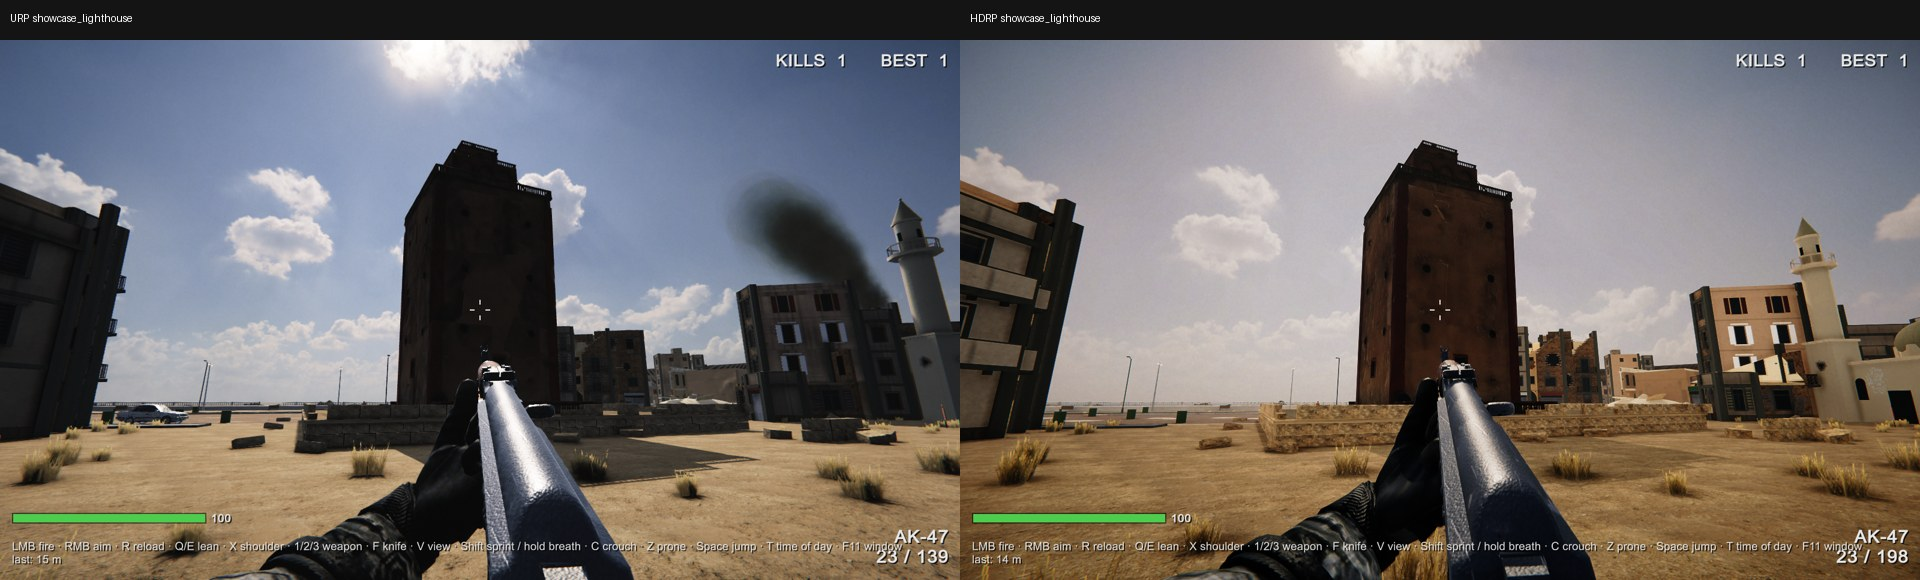
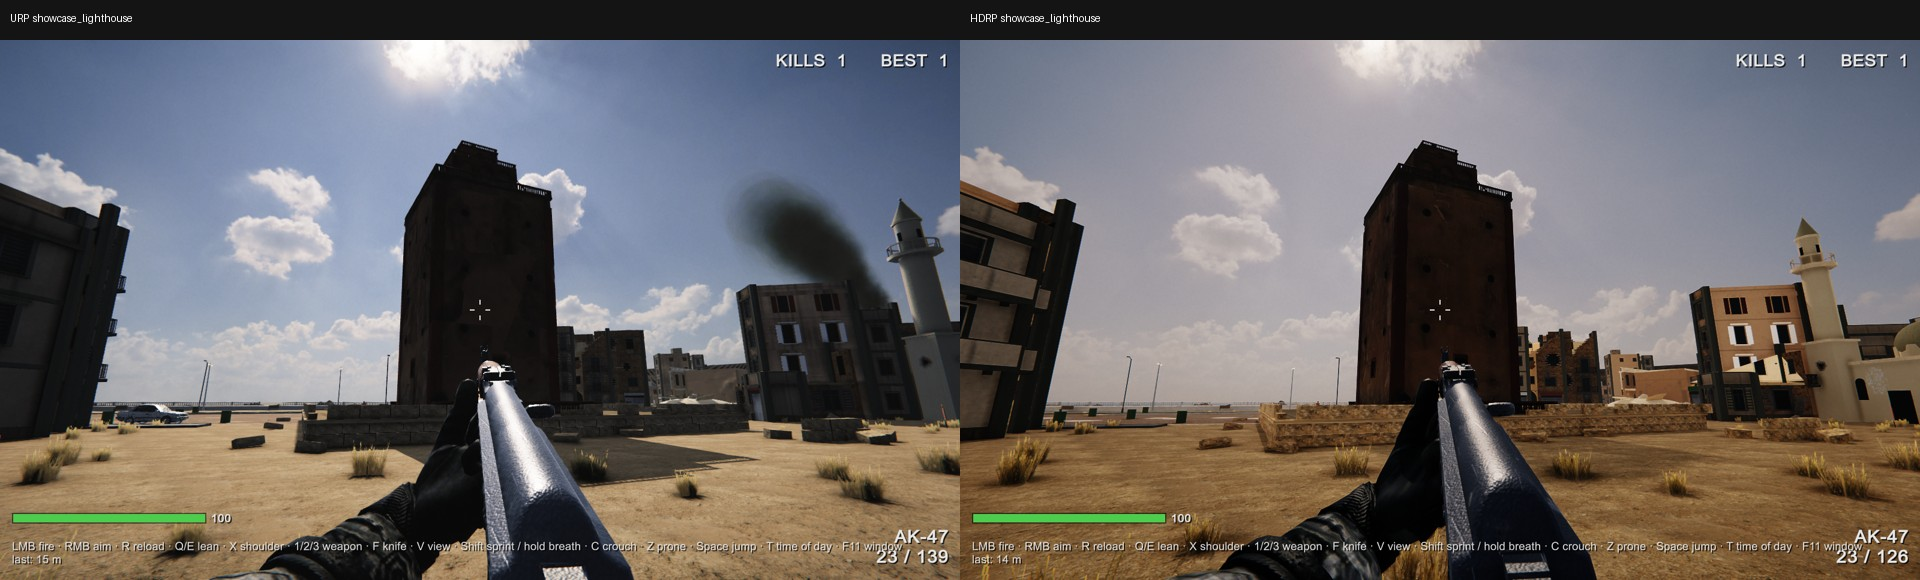
HDRP cinematic pass: 16-bit colour and grading LUT, full ACES, PCSS sun shadows, specular AA, 16x anisotropic, lighter lens artefacts, opt-in HDR10; report and before/after pictures

diff --git a/Assets/Editor/HdrpSetup.cs b/Assets/Editor/HdrpSetup.cs
@@ -71,7 +71,12 @@ public static class HdrpSetup
         // deferred only: hundreds of opaque buildings and one sun - cheapest lighting, half the shader variants.
         // (No MSAA in deferred; anti-aliasing is temporal, see CinematicLook.MainCamera.)
         s.supportedLitShaderMode = RenderPipelineSettings.SupportedLitShaderMode.DeferredOnly;
-        s.colorBufferFormat = RenderPipelineSettings.ColorBufferFormat.R11G11B10;
+        // 16-bit float colour all the way to the tonemapper: no banding in the sky gradient, the haze or the night
+        // (11/11/10 bits has no sign and only 5-6 bits of mantissa: it steps visibly in smooth dark gradients)
+        s.colorBufferFormat = RenderPipelineSettings.ColorBufferFormat.R16G16B16A16;
+        var pp = s.postProcessSettings;
+        pp.lutSize = 65; pp.lutFormat = GradingLutFormat.R16G16B16A16; pp.bufferFormat = PostProcessBufferFormat.R16G16B16A16;
+        s.postProcessSettings = pp;
         s.supportSSR = true; s.supportSSRTransparent = false;
         s.supportSSAO = true; s.supportSSGI = true;
         s.supportVolumetrics = true; s.supportVolumetricClouds = false;
@@ -88,7 +93,7 @@ public static class HdrpSetup
         var sh = s.hdShadowInitParams;
         sh.shadowResolutionDirectional = new IntScalableSetting(new[] { 1024, 2048, 2048, 4096 }, ScalableSettingSchemaId.With4Levels);
         sh.maxDirectionalShadowMapResolution = 4096;
-        sh.directionalShadowFilteringQuality = HDShadowFilteringQuality.Medium;
+        sh.directionalShadowFilteringQuality = HDShadowFilteringQuality.High;        // PCSS: sharp where the object touches the ground, softer with distance
         sh.supportScreenSpaceShadows = false;
         s.hdShadowInitParams = sh;
         // the picture can be drawn smaller and scaled up with the temporal upscaler (GraphicsQuality sets the percentage)
@@ -101,6 +106,8 @@ public static class HdrpSetup
 
         bool switched = GraphicsSettings.defaultRenderPipeline != asset;
         GraphicsSettings.defaultRenderPipeline = asset;
+        // the player may drive an HDR10 display (10 bits, wide gamut). It stays in SDR unless started with -hdr (GraphicsQuality).
+        PlayerSettings.allowHDRDisplaySupport = true; PlayerSettings.hdrBitDepth = HDRDisplayBitDepth.BitDepth10;
         int keep = QualitySettings.GetQualityLevel();
         for (int i = 0; i < QualitySettings.names.Length; i++) { QualitySettings.SetQualityLevel(i, false); QualitySettings.renderPipeline = asset; }
         QualitySettings.SetQualityLevel(keep, false);
@@ -145,8 +152,9 @@ public static class HdrpSetup
             m.shader = Shader.Find(shader); set(m); if (shader.StartsWith("HDRP/")) HDMaterial.ValidateMaterial(m); EditorUtility.SetDirty(m);
             return m;
         }
-        Make("Lit", HdLit, m => { m.SetTexture("_BaseColorMap", white); });
-        Make("LitPbr", HdLit, m => { m.SetTexture("_BaseColorMap", white); m.SetTexture("_NormalMap", flat); m.SetTexture("_MaskMap", mask); });
+        void Aa(Material m) { m.SetFloat("_EnableGeometricSpecularAA", 1); m.SetFloat("_SpecularAAScreenSpaceVariance", 0.15f); m.SetFloat("_SpecularAAThreshold", 0.2f); }
+        Make("Lit", HdLit, m => { m.SetTexture("_BaseColorMap", white); Aa(m); });
+        Make("LitPbr", HdLit, m => { m.SetTexture("_BaseColorMap", white); m.SetTexture("_NormalMap", flat); m.SetTexture("_MaskMap", mask); Aa(m); });
         Make("LitCutout", HdLit, m => { m.SetTexture("_BaseColorMap", white); m.SetFloat("_AlphaCutoffEnable", 1); m.SetFloat("_AlphaCutoff", 0.5f); m.SetFloat("_DoubleSidedEnable", 1); m.SetFloat("_DoubleSidedNormalMode", 2); });
         Make("Fx", "Benghazi/Fx", m => { });
         Make("Decal", "HDRP/Decal", m =>
@@ -267,6 +275,10 @@ public static class HdrpSetup
         m.SetFloat("_SurfaceType", transparent ? 1 : 0); m.SetFloat("_BlendMode", 0);
         if (transparent) { m.SetFloat("_TransparentZWrite", 0); m.SetFloat("_EnableFogOnTransparent", 1); }
         m.SetFloat("_SupportDecals", 1); m.SetFloat("_ReceivesSSR", 1);
+        // geometric specular anti-aliasing: bumps smaller than a pixel widen the highlight instead of sparkling as the
+        // camera moves; and occlusion also dims reflections in creases
+        m.SetFloat("_EnableGeometricSpecularAA", 1); m.SetFloat("_SpecularAAScreenSpaceVariance", 0.12f); m.SetFloat("_SpecularAAThreshold", 0.2f);
+        m.SetFloat("_SpecularOcclusionMode", 1);
         m.SetFloat("_EnergyConservingSpecularColor", 1);
         HDMaterial.ValidateMaterial(m);
         EditorUtility.SetDirty(m);

diff --git a/Assets/Editor/CinematicLook.cs b/Assets/Editor/CinematicLook.cs
@@ -129,7 +129,10 @@ public static class CinematicLook
         T Add<T>() where T : VolumeComponent { var c = p.Add<T>(false); c.active = true; return c; }
 
         // ACES: filmic shoulder and toe
-        Add<Tonemapping>().mode.Override(TonemappingMode.ACES);
+        // the full ACES transform (RRT + ODT), not the fitted curve: a very bright light loses its colour on the way
+        // to white the way it does on film, instead of clipping to a flat saturated patch
+        var tone = Add<Tonemapping>(); tone.mode.Override(TonemappingMode.ACES); tone.useFullACES.Override(true);
+        tone.acesPreset.Override(HDRACESPreset.ACES1000Nits); tone.detectPaperWhite.Override(true); tone.detectBrightnessLimits.Override(true);     // only used on an HDR display (-hdr)
 
         // the URP grade, value for value (exposure, saturation and filter belong to the hour: TimeOfDay)
         var ca = Add<ColorAdjustments>();
@@ -150,14 +153,14 @@ public static class CinematicLook
         var bloom = Add<Bloom>();
         bloom.threshold.Override(1.1f); bloom.intensity.Override(0.16f); bloom.scatter.Override(0.6f); bloom.tint.Override(Color.white);
         var vig = Add<Vignette>();
-        vig.mode.Override(VignetteMode.Procedural); vig.color.Override(Color.black); vig.intensity.Override(0.28f); vig.smoothness.Override(0.4f); vig.rounded.Override(false);
-        var grain = Add<FilmGrain>(); grain.type.Override(FilmGrainLookup.Thin1); grain.intensity.Override(0.22f); grain.response.Override(0.8f);
+        vig.mode.Override(VignetteMode.Procedural); vig.color.Override(Color.black); vig.intensity.Override(0.2f); vig.smoothness.Override(0.4f); vig.rounded.Override(false);
+        var grain = Add<FilmGrain>(); grain.type.Override(FilmGrainLookup.Thin1); grain.intensity.Override(0.14f); grain.response.Override(0.8f);
         var flare = Add<ScreenSpaceLensFlare>();
         flare.intensity.Override(0.55f); flare.tintColor.Override(new Color(1f, 0.93f, 0.82f));
         flare.firstFlareIntensity.Override(0.6f); flare.secondaryFlareIntensity.Override(0.35f); flare.warpedFlareIntensity.Override(0.3f);
         flare.streaksIntensity.Override(0.6f); flare.streaksLength.Override(0.45f); flare.streaksThreshold.Override(0.6f);
         flare.vignetteEffect.Override(0.8f); flare.chromaticAbberationIntensity.Override(0.5f);
-        Add<ChromaticAberration>().intensity.Override(0.04f);
+        Add<ChromaticAberration>().intensity.Override(0.03f);
         // per-object motion vectors: the gun and arms move with the camera, so they stay sharp while the street streaks a little
         var mb = Add<MotionBlur>();
         mb.intensity.Override(0.14f); mb.maximumVelocity.Override(60f); mb.minimumVelocity.Override(2f);
@@ -168,6 +171,8 @@ public static class CinematicLook
         ao.intensity.Override(1.5f); ao.radius.Override(1.2f); ao.directLightingStrength.Override(0.3f); ao.temporalAccumulation.Override(true);
         var ssr = Add<ScreenSpaceReflection>();
         ssr.enabled.Override(true); ssr.reflectSky.Override(true);
+        ssr.usedAlgorithm.Override(ScreenSpaceReflectionAlgorithm.Approximation);     // rough surfaces get a properly blurred reflection, not a mirror one faded out
+        ssr.accumulationFactor.Override(0.8f);
         var gi = Add<GlobalIllumination>();                 // screen-space bounce light: sunlit ground lights the shaded wall
         gi.enable.Override(true);
         var cs = Add<ContactShadows>();
@@ -219,7 +224,8 @@ public static class CinematicLook
         var hd = sun.GetComponent<HDAdditionalLightData>() ?? sun.gameObject.AddComponent<HDAdditionalLightData>();
         sun.lightUnit = LightUnit.Lux; sun.useColorTemperature = false; sun.shadows = LightShadows.Soft; sun.cookie = null;
         TimeOfDay.WriteSun(sun, TimeOfDay.Presets[EditorTime]);
-        hd.angularDiameter = 1.2f;                         // a little larger than the real sun: softer shadow edges with distance
+        hd.angularDiameter = 0.8f;                         // the real sun is 0.53 degrees; a little more so the penumbra reads at street distances
+        hd.dirLightPCSSMaxPenumbraSize = 0.7f; hd.dirLightPCSSBlockerSampleCount = 24; hd.dirLightPCSSFilterSampleCount = 16;
         hd.SetShadowResolutionOverride(false); hd.SetShadowResolutionLevel(2);
         hd.useContactShadow.useOverride = true; hd.useContactShadow.@override = true;
         hd.affectsVolumetric = true; hd.volumetricDimmer = 1f; hd.volumetricShadowDimmer = 1f;

diff --git a/Assets/Benghazi/Scripts/GraphicsQuality.cs b/Assets/Benghazi/Scripts/GraphicsQuality.cs
@@ -61,7 +61,14 @@ public class GraphicsQuality : MonoBehaviour
         var cam = Camera.main;
         if (cam && cam.TryGetComponent<HDAdditionalCameraData>(out var cd)) cd.allowDynamicResolution = true;
 
+        // textures seen at a shallow angle (the paving, the road, the rifle) stay sharp into the distance
+        QualitySettings.anisotropicFiltering = AnisotropicFiltering.ForceEnable; Texture.SetGlobalAnisotropicFilteringLimits(16, 16);
+
         int start = PlayerPrefs.GetInt("benghazi_quality", DefaultLevel); var a = System.Environment.GetCommandLineArgs();
+        // HDR10 output (10 bits, wide gamut, ACES for a 1000-nit display) only when asked for with -hdr and the display offers it
+        bool wantHdr = System.Array.IndexOf(a, "-hdr") >= 0; var hdr = HDROutputSettings.main;
+        if (hdr != null && hdr.available) { hdr.RequestHDRModeChange(wantHdr); Debug.Log($"[quality] HDR display available, output {(wantHdr ? "HDR10" : "SDR (start with -hdr for HDR10)")}"); }
+        else Debug.Log("[quality] no HDR display" + (wantHdr ? " - -hdr ignored" : ""));
         bool autotest = false;
         for (int i = 0; i < a.Length; i++)
         {

diff --git a/Assets/Benghazi/Scripts/TimeOfDay.cs b/Assets/Benghazi/Scripts/TimeOfDay.cs
@@ -45,7 +45,7 @@ public class TimeOfDay : MonoBehaviour
     public static readonly float[] RealSkyExposure = { 0.8f, 0.85f, 0.9f, 1.0f, 0.13f };
 
     // ---- HDRP scale (see the header)
-    public const float ExposureBase = -1.5f;          // EV100 for a preset exposure of 0. Set by eye against the URP build's pictures on the promenade
+    public const float ExposureBase = -1.05f;         // EV100 for a preset exposure of 0. Set by eye against the URP build's pictures on the promenade
                                                       // (HdrpDebug.Expo); -0.26, where HDRP's exposure multiplier is exactly 1, came out 1.3 stops under.
     public const float SunLux = Mathf.PI;             // lux per unit of the old directional-light strength
     public const float FogTop = 90f;                  // the haze thins out above the roofs (m)

diff --git a/HDRP_REPORT.md b/HDRP_REPORT.md
@@ -6,12 +6,12 @@
 ## الخلاصة
 
 - المشروع على هذا الفرع يرسم بـ HDRP، والنسخة المبنية موجودة في `D:\Alkarama\builds\win-hdrp\Benghazi.exe`. نسخة URP في `D:\Alkarama\builds\win` لم تُمَسّ.
-- الاختبار التلقائي الكامل ينتهي بـ `done` وبصفر `Exception`. شُغّل 16 مرة كاملة (8 منها للقياس، و5 بعد جولة ضبط الصورة)، كلها نجحت.
+- الاختبار التلقائي الكامل ينتهي بـ `done` وبصفر `Exception`. شُغّل أكثر من 25 مرة كاملة (القياسات وجولتا الضبط)، كلها نجحت.
 - الأوقات الخمسة تعمل كلها (`-timeshots`).
 - الأداء أعلى بكثير من الهدف على هذا الجهاز: المستوى الافتراضي HIGH يعطي **182 إطاراً** بدقة 1600×900 و**162 إطاراً** بدقة 1920×1080 (بدون vsync). لا توجد مشكلة أداء في HDRP على RTX 5060.
 - **لم يُختبر على RTX 4050.** الجهاز المتاح RTX 5060 فقط، فهدف «60 إطاراً على 4050» غير مُتحقَّق منه بالقياس. الهامش كبير (HIGH ثلاثة أضعاف الهدف هنا)، لكنه استنتاج لا قياس.
 - الصورة بعد جولة الضبط: الظلال والإضاءة في الظل والبحر أفضل بوضوح، واللون والتباين صارا قريبين من URP. السماء ما زالت أبهت قليلاً، ولا يوجد خط زبد عند الشاطئ (التفاصيل أدناه). الفرق تحسين حقيقي لكنه ليس «القفزة السينمائية» وحده.
-- مشكلة واحدة مفتوحة تمنعني من التوصية بالاعتماد الفوري: **تعطّل كرت الشاشة مرتين** (`D3D12 device removed`) في أول ثلاث تشغيلات بعد إحدى عمليات البناء، ولم يتكرر بعدها في 31 تشغيلاً متتالياً. السبب غير مؤكد.
+- مشكلة واحدة مفتوحة تمنعني من التوصية بالاعتماد الفوري: **تعطّل كرت الشاشة مرتين** (`D3D12 device removed`) في أول ثلاث تشغيلات بعد إحدى عمليات البناء، ولم يتكرر بعدها في أكثر من 40 تشغيلاً متتالياً. السبب غير مؤكد.
 
 ## التوصية
 
@@ -55,6 +55,43 @@
 
 - **F8** أثناء اللعب ينتقل بين المستويات فوراً، والاختيار يُحفظ.
 - من سطر الأوامر: `-quality low|medium|high|ultra`، و`-novsync`، و`-fpslog`.
+
+## جولة الضبط السينمائي (28 نوفمبر)
+
+طُبّق ما يمكن تطبيقه بالإعدادات من محاور «الإضاءة الفيزيائية، الخامات، عمق الألوان، وضوح العدسة». المقارنة قبل/بعد في `Docs/hdrp/cine_*.jpg`.
+
+| ما طُبّق | الغرض |
+|---|---|
+| مخزن ألوان 16-بت لكل قناة، وجدول تدريج 65 بدقة 16-بت | منع تقطّع التدرجات في السماء والضباب والليل |
+| ACES الكامل (RRT + ODT) بدل المنحنى التقريبي | الإضاءات الشديدة تفقد تشبعها تدريجياً بدل أن تحترق |
+| ظلال شمس PCSS، وقطر الشمس 0.8 درجة | الظل حاد عند التلامس وينعم مع البعد |
+| تنعيم اللمعان الهندسي على كل الخامات، وتعتيم الانعكاس في الزوايا | منع وميض اللمعان أثناء الحركة |
+| ترشيح متباين الخواص 16x مفروض | حدّة الأرضيات المائلة |
+| تخفيف الحبيبات (0.22 ← 0.14) والتعتيم الجانبي (0.28 ← 0.2) والزيغ اللوني (0.04 ← 0.03) | عيوب عدسة معتدلة |
+| إخراج HDR10 اختياري (`-hdr`) بـ ACES لشاشة 1000 شمعة | 10-بت ونطاق لوني واسع على الشاشات التي تدعمه |
+
+الأداء على RTX 5060، 1920×1080، بدون vsync، على الكهرباء:
+
+| المستوى | قبل الجولة | بعدها | الفرق |
+|---|---|---|---|
+| LOW | 241 | 229 | -5% |
+| HIGH | 163 | 148 | -9% |
+| ULTRA | 97 | 89 | -8% |
+
+من الفرق في HIGH: نحو 4% للألوان 16-بت وACES الكامل وما معهما (157 إطاراً بدون PCSS)، ونحو 6% لظلال PCSS. دقة 1600×900 لم يُعَد قياسها بعد هذه الجولة.
+
+**ما يجب أن تعرفه بصراحة:**
+
+- **الفرق البصري لهذه الجولة صغير.** في اللقطات جنباً إلى جنب بالكاد يُرى: حافة الظل أنعم قليلاً، والإضاءات الشديدة ألطف لوناً. هذه الإعدادات تزيل عيوباً (تقطّع، وميض، احتراق) أكثر مما تضيف «قفزة».
+- **HDR10 غير مُجرَّب.** شاشة هذا الحاسوب لا تدعمه (السجل يقول `no HDR display`)، فلم أرَ نتيجته.
+- **انعكاسات الشاشة الفيزيائية (PBR Accumulation)** جُرّبت ثم أُعيدت إلى الوضع التقريبي. قيست وحاسوبك على البطارية فلم تصلح الأرقام، ولم أُعِد قياسها على الكهرباء.
+- **ما لا تستطيعه الإعدادات من المقال:**
+  - تتبّع المسار والانعكاسات بتتبّع الأشعة: مطفأ. يحتاج تجربة مستقلة وقياساً على 4050.
+  - تشتّت الضوء تحت السطح (بشرة، سعف النخيل): غير مفعّل، يحتاج ملفات تعريف انتشار وخامات مخصّصة.
+  - العيوب المجهرية والمسح التصويري وMotion Matching: أصول فنية وحركات، لا إعدادات. هذا ما قالته `ROADMAP.md` من قبل، وما زال صحيحاً: السقف الحالي للصورة هو المباني الصندوقية ونماذج الأسلحة والجندي، لا المحرك.
+  - عدسة فيزيائية ببعد بؤري حقيقي: مجال الرؤية جزء من اللعب (تصويب، قنّاص) ولم أغيّره.
+  - تعريض تلقائي (تكيّف العين): غير مفعّل، التعريض ثابت لكل وقت.
+  - DLSS/DLAA: ما زال غير مفعّل. التنعيم الحالي TAA عالي الجودة.
 
 ## ما صار أفضل من URP
 
